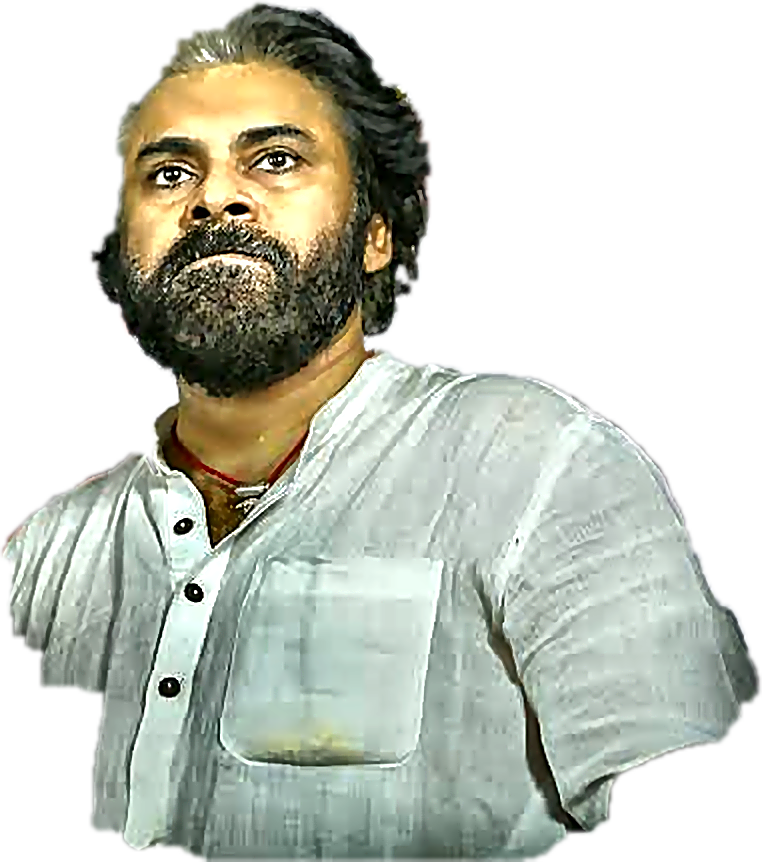
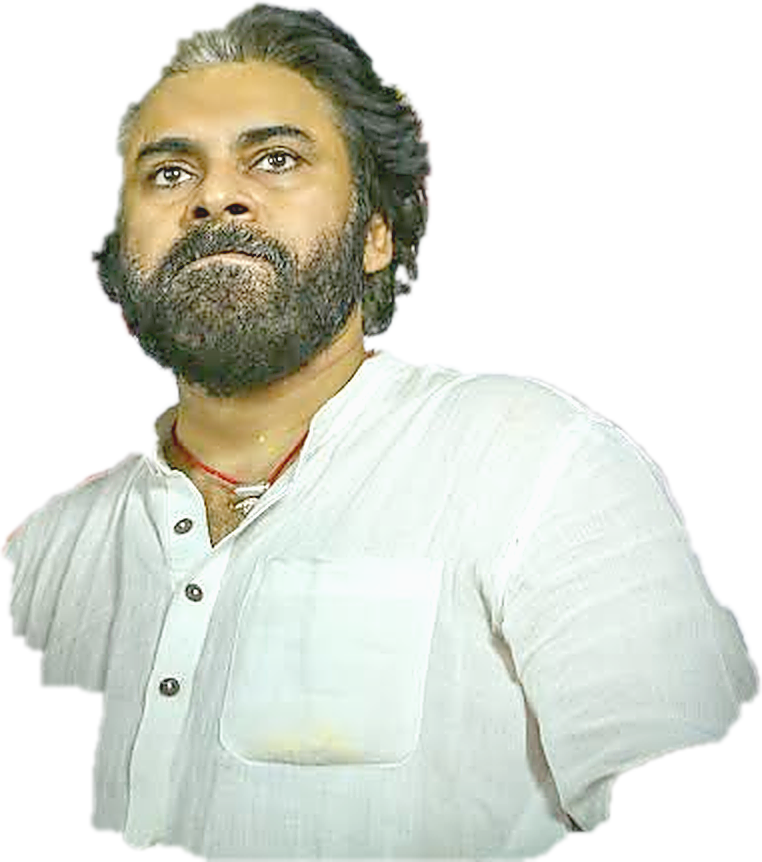
TDP cards: remove bottom Chandrababu photo, brighter Pawan coin
Claude-Session: https://claude.ai/code/session_01WyRi1MSoCYa4qLHTR4kdag

diff --git a/channels/trending/portraits.py b/channels/trending/portraits.py
@@ -32,7 +32,7 @@ def _person(name: str, height: int) -> Image.Image:
     return out
 
 
-FACE_BOX = {"pawan": (255, 92, 595, 432), "pawan_front": (0, 0, 452, 452)}   # square around the face in the cut-out (it is a wide photo)
+FACE_BOX = {"pawan": (255, 92, 595, 432), "pawan_front": (0, 0, 470, 470)}   # square around the face in the cut-out (it is a wide photo)
 
 
 def _coin(name: str, d: int) -> Image.Image:
@@ -76,17 +76,18 @@ def make_overlay(font_path: str):
     def overlay(bg: Image.Image, row: dict) -> Image.Image:
         bg = bg.convert("RGBA")
         a, b = WHO.get(row.get("category", ""), ("cbn", "lokesh"))
-        big, small = _person(a, 330 if a == "pawan" else 430), (_person(b, 340) if b else None)  # Pawan's photo is landscape
-        if b:  # TDP cards: NTR and Pawan Kalyan as round coins, top-right
+        if b:  # TDP cards: round coins (NTR, Chandrababu, Pawan) top-right; Lokesh alone at the bottom-right
             x = W - 24
-            for who in ("ntr", "cbn", "pawan_front"):  # right to left: NTR, Chandrababu, Pawan Kalyan
+            for who in ("ntr", "cbn", "pawan_front"):
                 c = _coin(who, 106)
                 x -= c.width
                 bg.alpha_composite(c, (x, 160))
                 x -= 8
-        bg.alpha_composite(big, (0 if a == "pawan" else -10, H - big.height - 150))
-        if small:
-            bg.alpha_composite(small, (W - small.width + 10, H - small.height - 150))
+            lk = _person("lokesh", 400)
+            bg.alpha_composite(lk, (W - lk.width + 10, H - lk.height - 150))
+        else:  # Janasena cards: Pawan Kalyan only, bottom-left
+            pk = _person(a, 330)
+            bg.alpha_composite(pk, (0, H - pk.height - 150))
         _badge(bg, font_path)
         return bg
     return overlay
